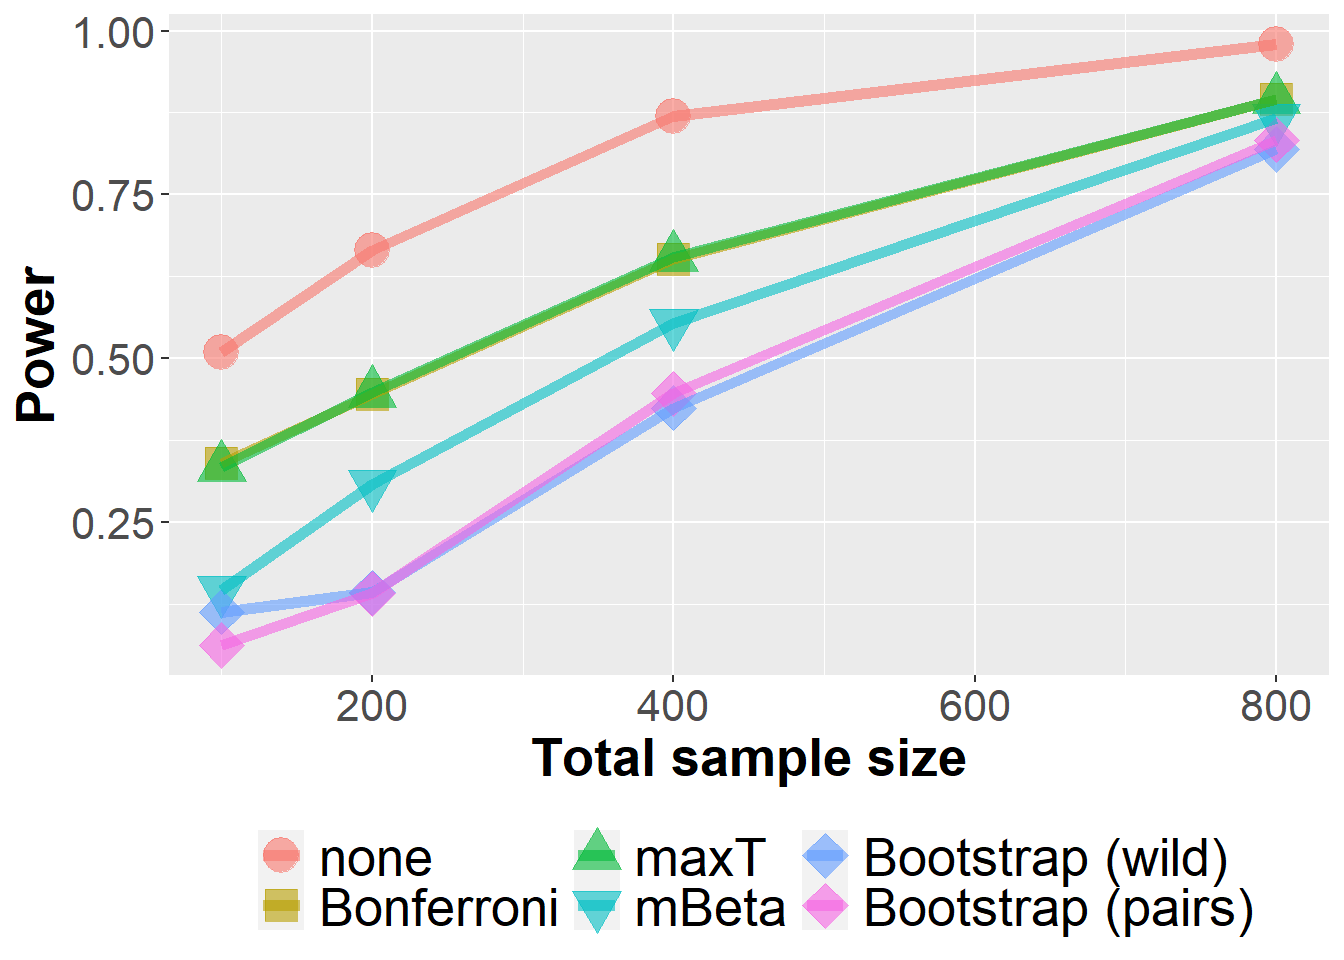
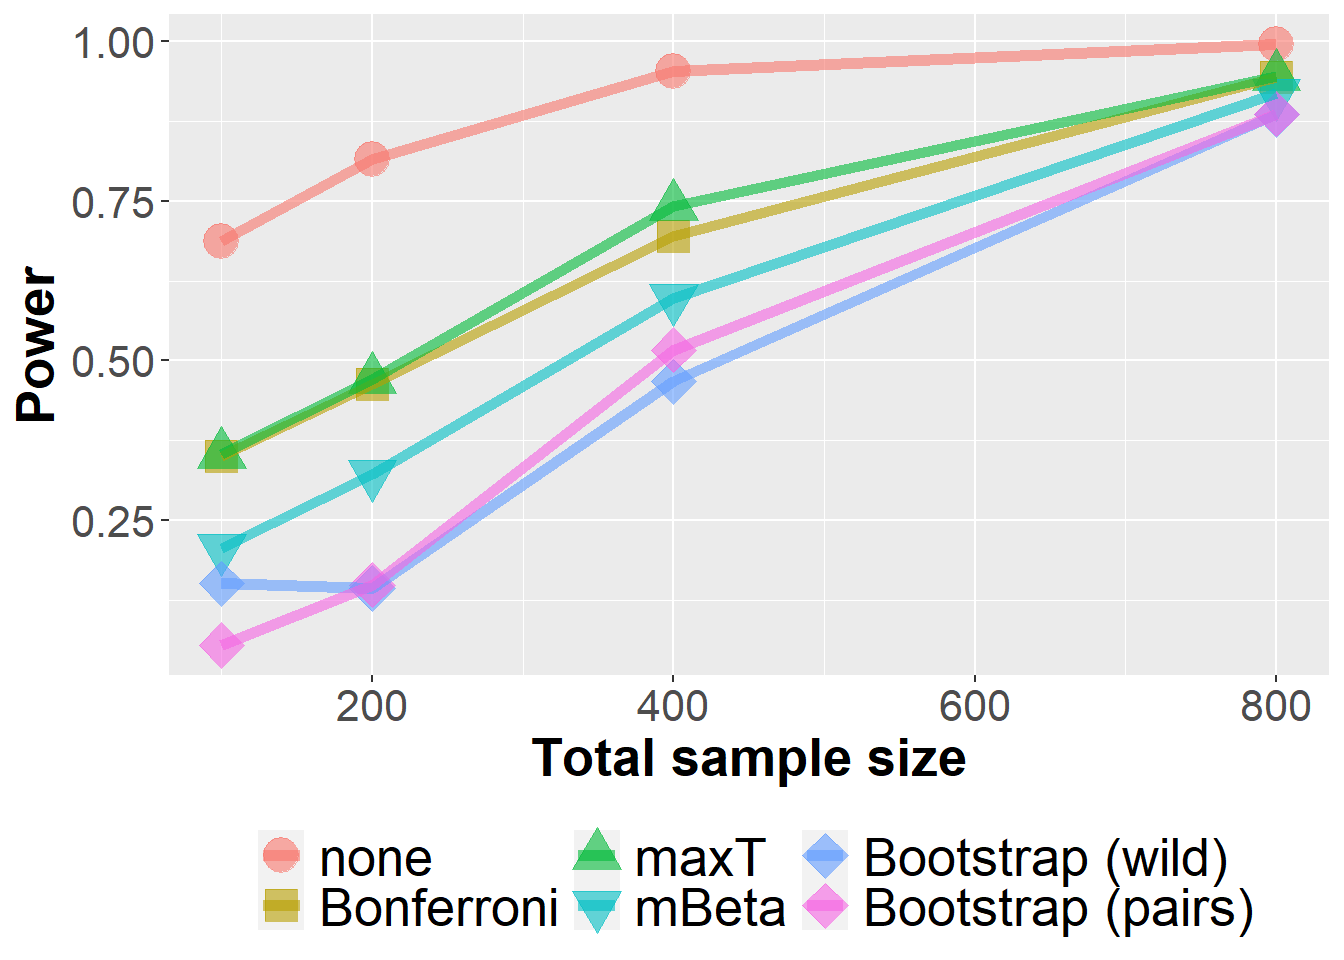
fixed minor typo

diff --git a/docs/2_analysis.html b/docs/2_analysis.html
@@ -292,7 +292,7 @@ override using the `.groups` argument.</code></pre>
 </div>
 <div class="cell">
 <div class="sourceCode cell-code" id="cb14"><pre class="sourceCode r code-with-copy"><code class="sourceCode r"><span id="cb14-1"><a href="#cb14-1" aria-hidden="true" tabindex="-1"></a>data_lfc <span class="sc">%&gt;%</span> </span>
-<span id="cb14-2"><a href="#cb14-2" aria-hidden="true" tabindex="-1"></a>  <span class="fu">filter</span>(prev<span class="sc">==</span><span class="fl">0.25</span>, m<span class="sc">==</span><span class="dv">5</span>, n<span class="sc">&lt;</span><span class="dv">1000</span>, se<span class="sc">==</span><span class="fl">0.8</span>, cortype<span class="sc">==</span><span class="st">"equi"</span>) <span class="sc">%&gt;%</span></span>
+<span id="cb14-2"><a href="#cb14-2" aria-hidden="true" tabindex="-1"></a>  <span class="fu">filter</span>(prev<span class="sc">==</span><span class="fl">0.25</span>, m<span class="sc">==</span><span class="dv">10</span>, n<span class="sc">&lt;</span><span class="dv">1000</span>, se<span class="sc">==</span><span class="fl">0.8</span>, cortype<span class="sc">==</span><span class="st">"equi"</span>) <span class="sc">%&gt;%</span></span>
 <span id="cb14-3"><a href="#cb14-3" aria-hidden="true" tabindex="-1"></a>  <span class="fu">filter</span>(transformation<span class="sc">==</span><span class="st">"none"</span>) <span class="sc">%&gt;%</span> </span>
 <span id="cb14-4"><a href="#cb14-4" aria-hidden="true" tabindex="-1"></a>  <span class="fu">group_by</span>(Adjustment, n, prev, m, rhose) <span class="sc">%&gt;%</span></span>
 <span id="cb14-5"><a href="#cb14-5" aria-hidden="true" tabindex="-1"></a>  <span class="fu">summarize</span>(<span class="at">nsim=</span><span class="fu">n</span>(), <span class="at">rr =</span> <span class="fu">mean</span>(<span class="st">`</span><span class="at">0.05</span><span class="st">`</span> <span class="sc">&gt;</span> <span class="dv">0</span>)) <span class="sc">%&gt;%</span></span>
